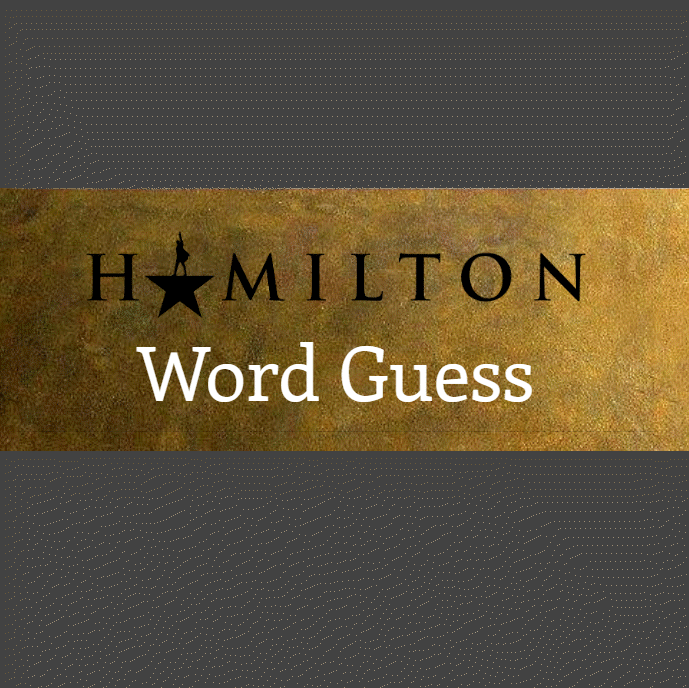
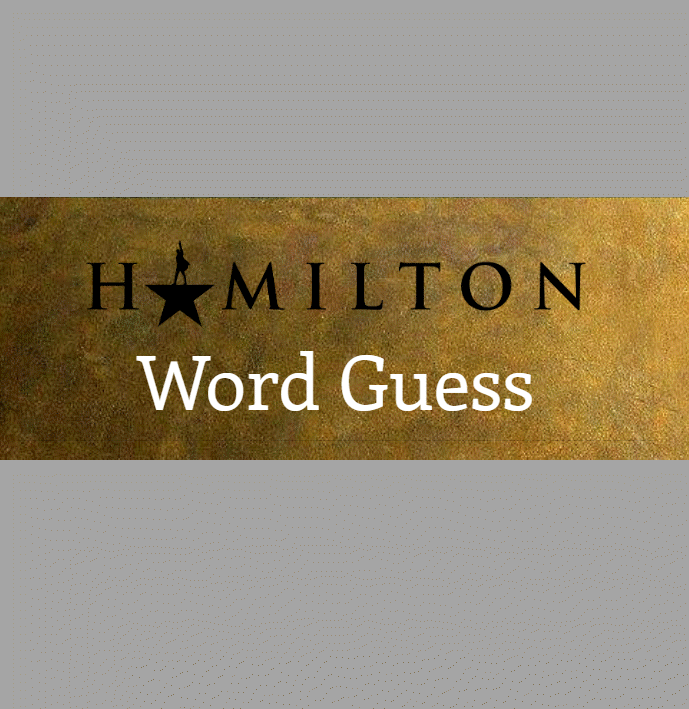
changed the hover border

diff --git a/app/public/portfolio.html b/app/public/portfolio.html
@@ -44,7 +44,7 @@
                     <a class="nav-link" href="portfolio">Portfolio</a>
                 </li>
                 <li class="nav-item">
-                    <a class="nav-link" href="about">About</a>
+                    <a class="nav-link" href="about">About me</a>
                 </li>
             </ul>
         </div>
@@ -135,7 +135,7 @@
                 <!-- HAMILTON WORD GUESS -->
                 <div data-toggle="modal" data-target="#seeMoreHamilton" class="card borderFE projects-display">
                     <div class="card-body p-0">
-                        <img class="project-image" src="images/hamilton-word-guess.png">
+                        <img class="project-image" src="images/hamilton-word-guess2.png">
                     </div>
                 </div>
 
@@ -202,8 +202,8 @@
                             </div>
                         </div>
                         <div class="modal-footer">
-                            <a href="https://github.com/emilybaum/thissociety" target="_blank"><button type="button" class="btn btn-secondary modalSeeCode">Github</button></a>
-                            <a href="https://emilybaum.github.io/thissociety" target="_blank"><button type="button" class="btn btn-secondary modalLaunchSite">Launch Site</button></a>
+                            <a href="https://github.com/emilybaum/thissociety" target="_blank"><button type="button" class="btn btn-secondary">Github</button></a>
+                            <a href="https://emilybaum.github.io/thissociety" target="_blank"><button type="button" class="btn btn-secondary">Launch Site</button></a>
                         </div>
                     </div>
                 </div>

diff --git a/app/public/css/style.css b/app/public/css/style.css
@@ -15,6 +15,10 @@ font-family: 'Saira Stencil One', cursive;
     color: #143e49;
 }
 
+.nav-link {
+    font-family: 'Permanent Marker', cursive;
+}
+
 .emily-webdev-contain {
     width: 100%;
     display: inline-flex;
@@ -152,20 +156,20 @@ font-family: 'Saira Stencil One', cursive;
 }
 
 .borderFS {
-    border-left: solid 9px #438496;
+    border-left: solid 10px #438496;
 }
 
 .borderFE {
-    border-left: solid 9px #343A40;
+    border-left: solid 10px #143e49;
 }
 
 .borderBE {
-    border-left: solid 9px #ffffff;
+    border-left: solid 10px #ffffff;
 }
 
 
 .projects-display:hover {
-    border: solid 10px #43849675
+    border: solid 10px #c99b61
 }
 
 .project-image {
